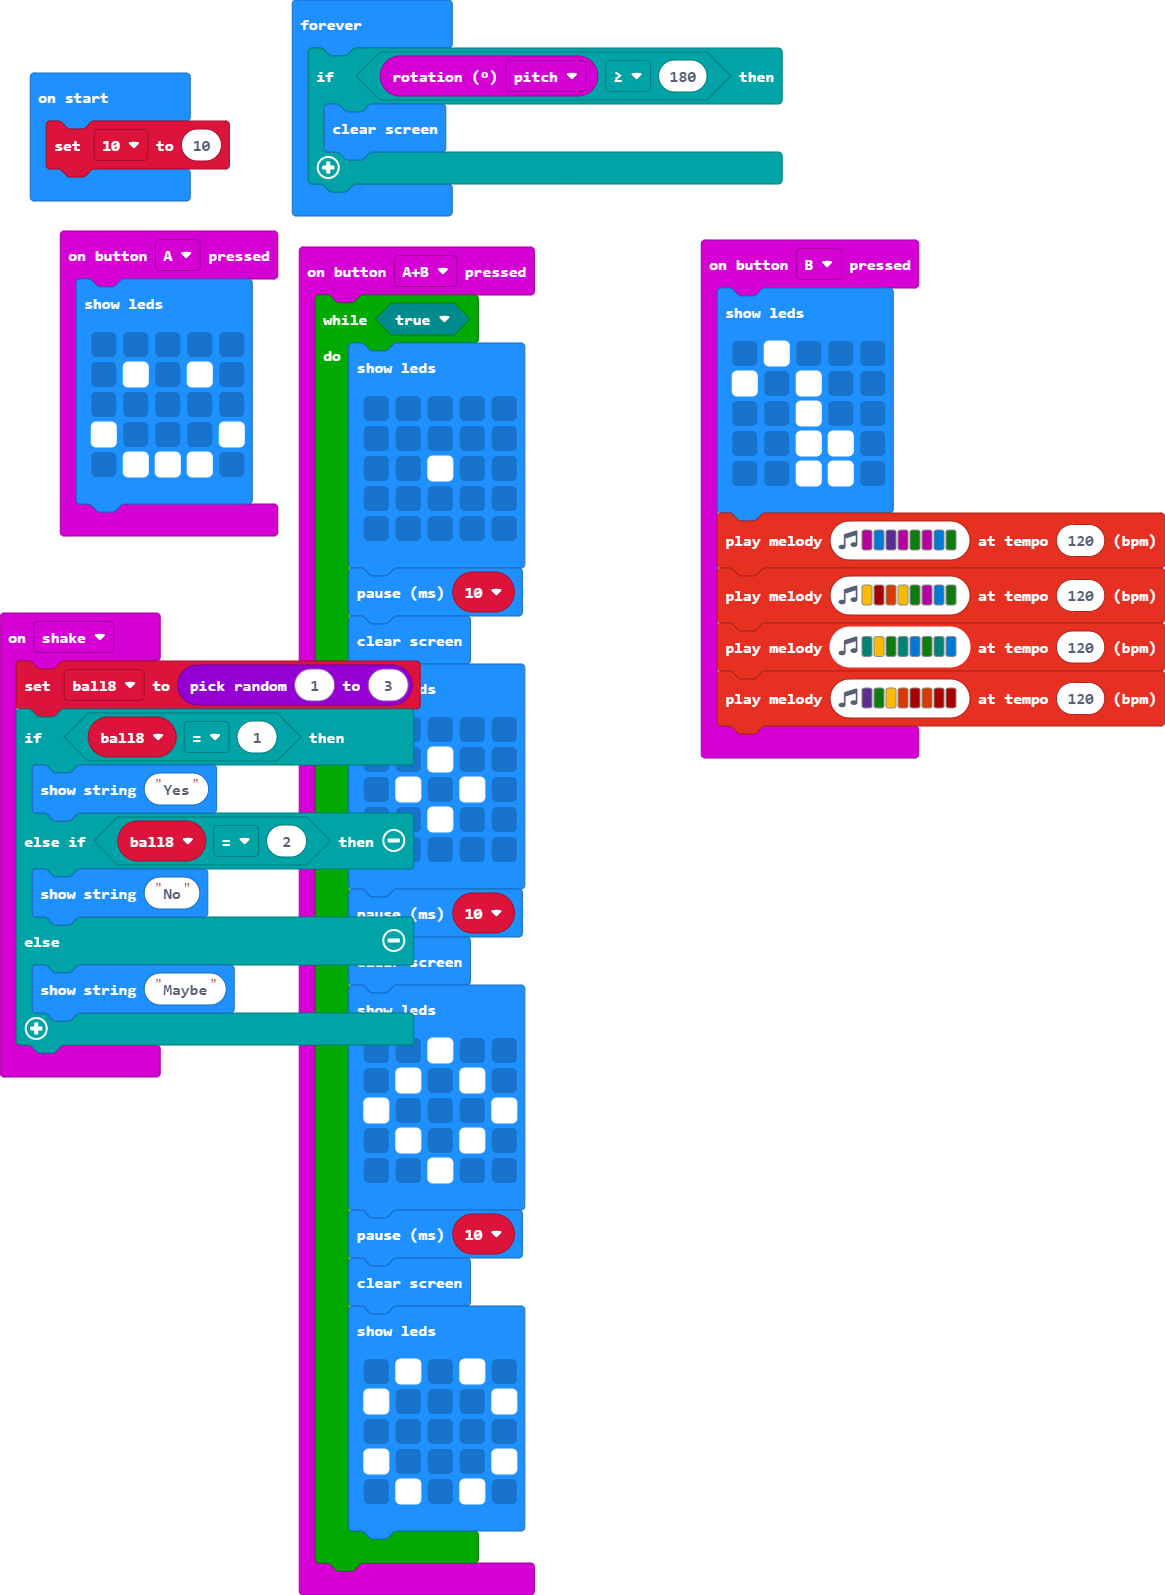
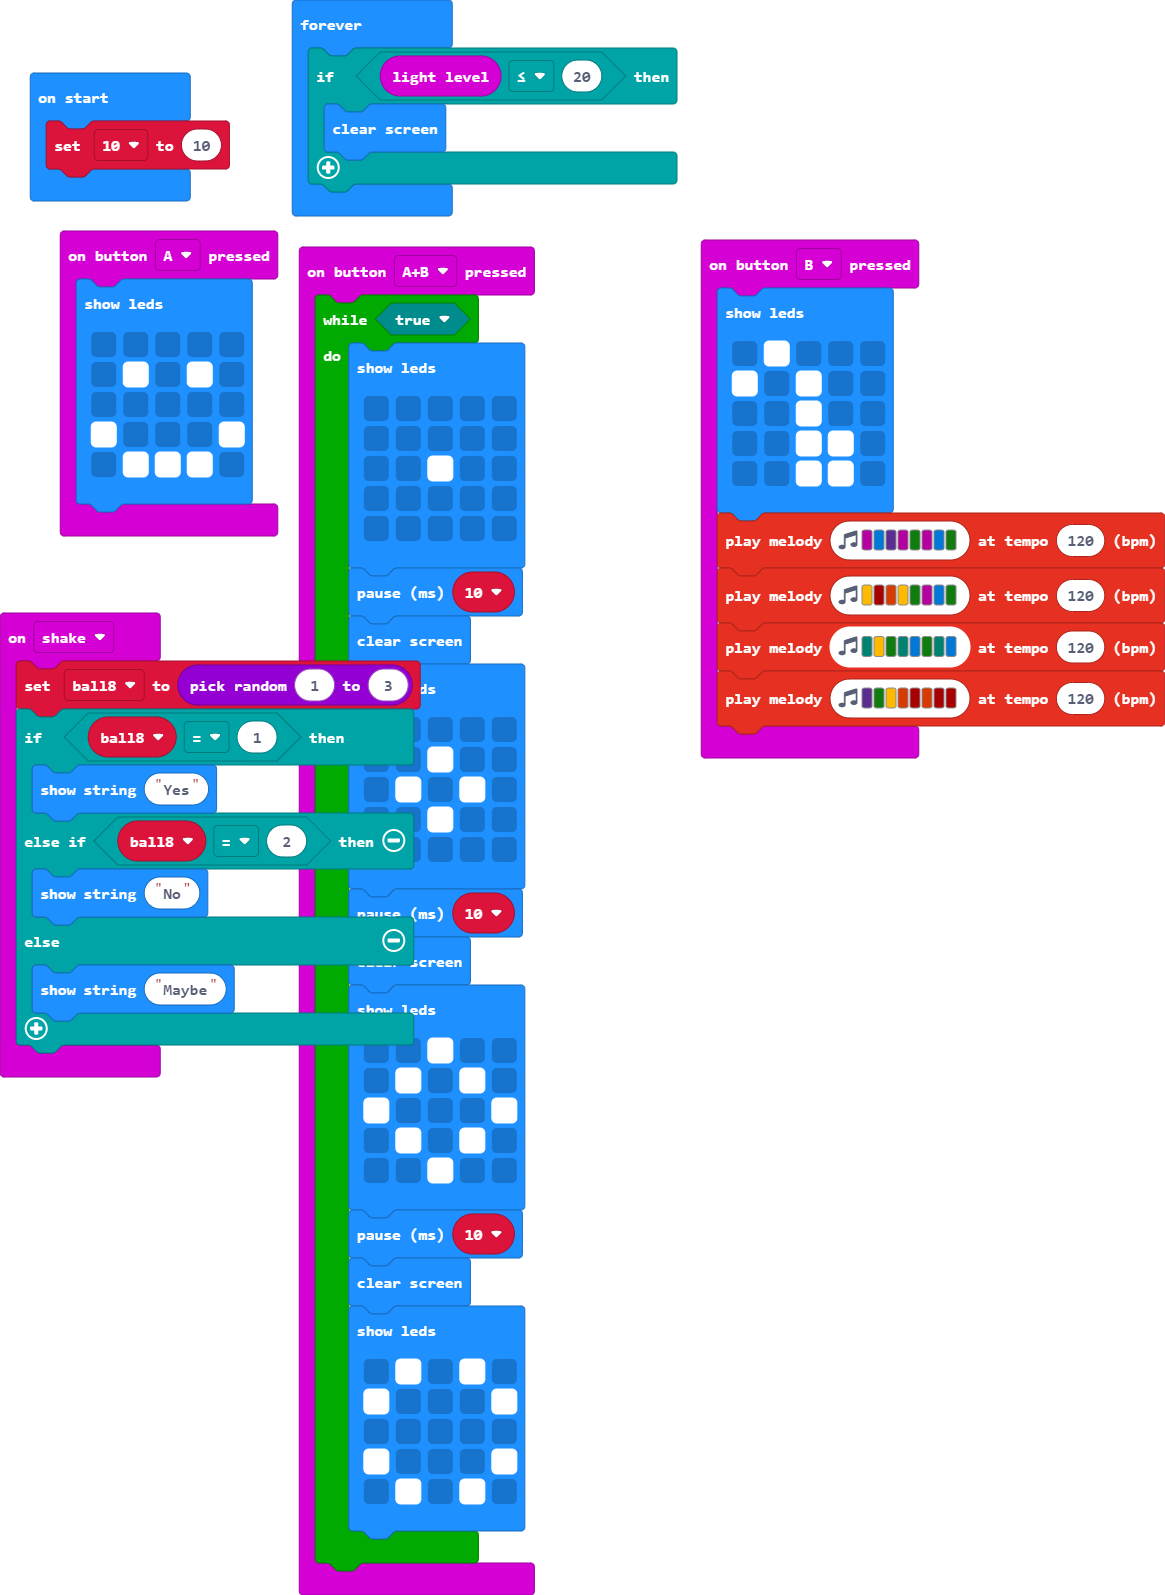
Update main.blocks, main.ts

Changed region(s): [[0.4017, 0.0307, 0.6798, 0.1229], [0.3399, 0.0307, 0.3708, 0.0614]]

diff --git a/main.ts b/main.ts
@@ -72,7 +72,7 @@ let ball8 = 0
 let _10 = 0
 _10 = 10
 basic.forever(function () {
-    if (input.rotation(Rotation.Pitch) >= 180) {
+    if (input.lightLevel() <= 20) {
         basic.clearScreen()
     }
 })
